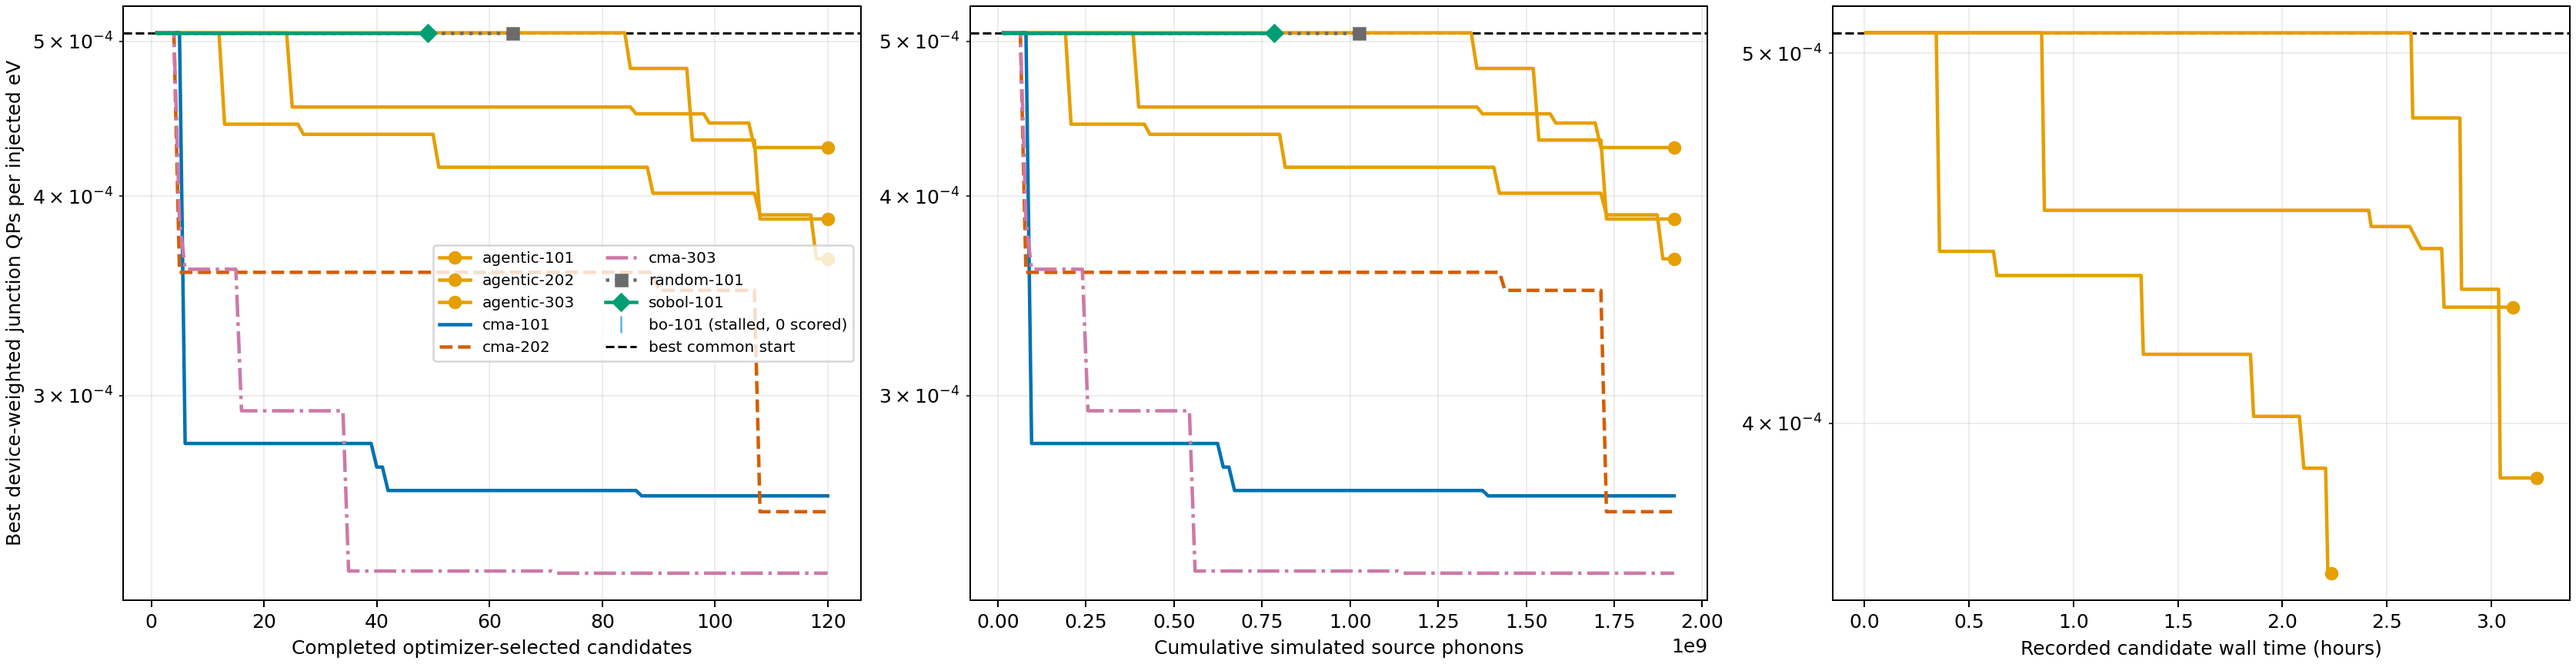
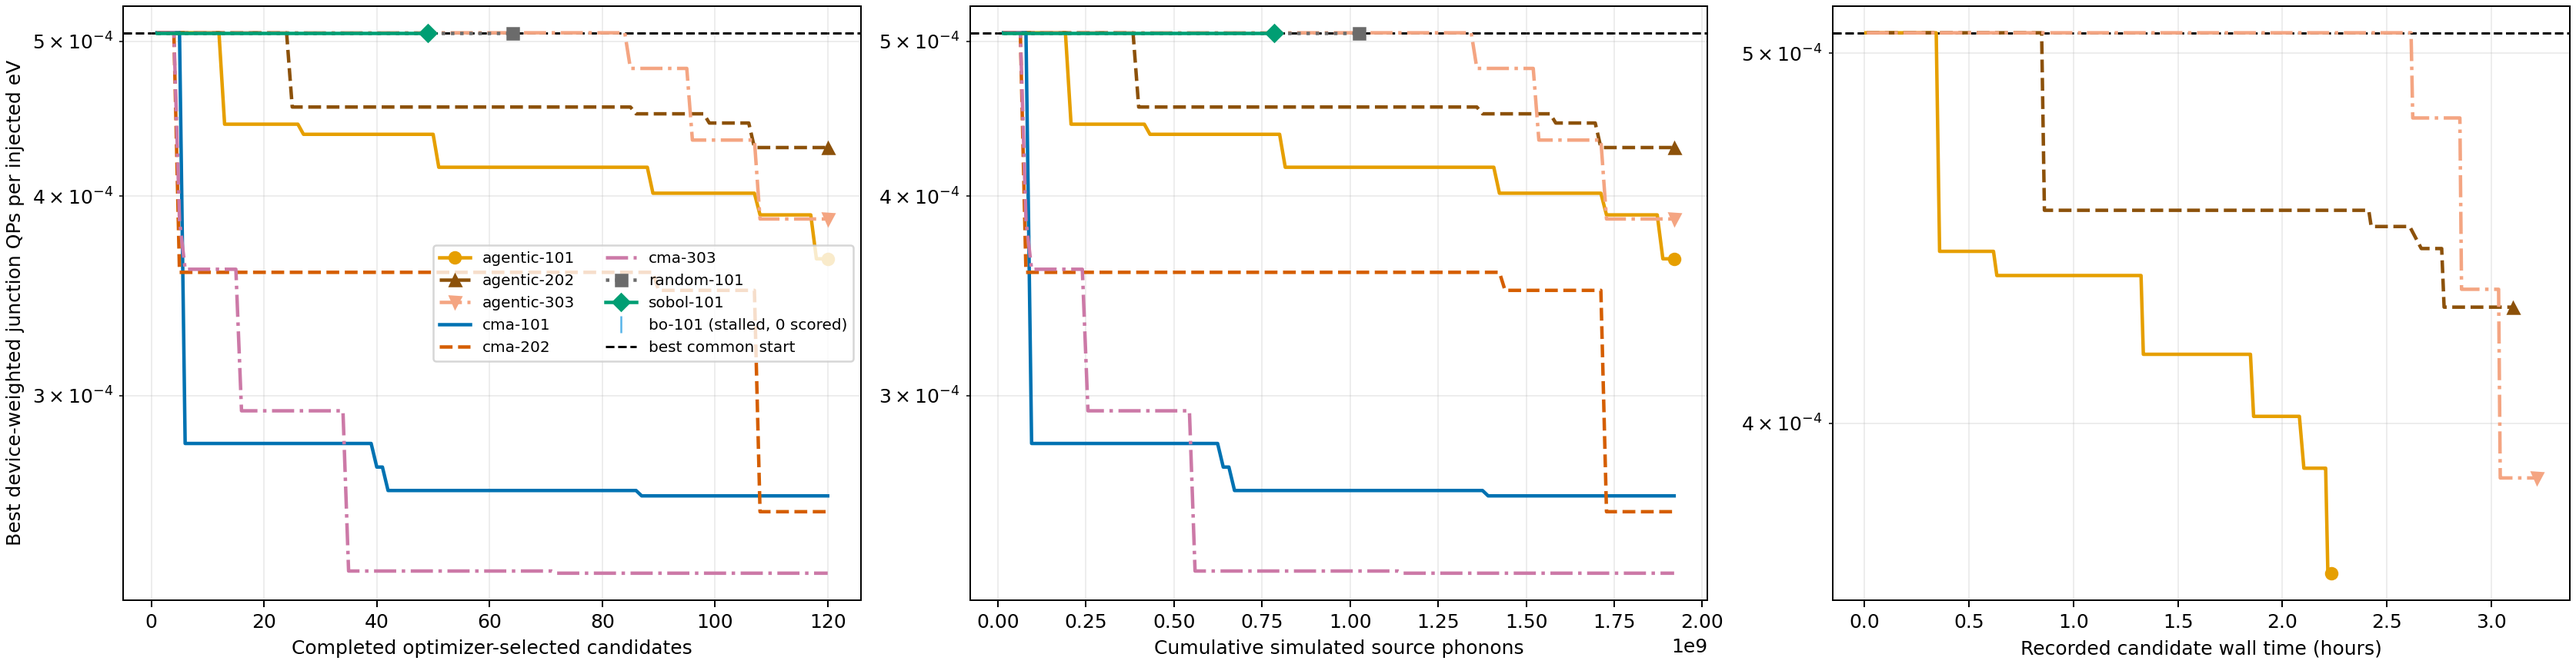
Finalize agentic benchmark results and figure

diff --git a/AGENTIC_MATERIAL_OPTIMIZATION_PLAN.md b/AGENTIC_MATERIAL_OPTIMIZATION_PLAN.md
@@ -3,11 +3,10 @@
 Status: implemented and covered by local replay tests on branch
 `Agentic_Material_optimization`, which began from
 `Material_optimization_v3_scan_parameters_revised` at commit `da7637f`. The exact
-production model passed the four-GPU preflight, and separately labelled one-point
-deployment and equal-policy pilots completed end to end. The equal-policy pilot
-validates execution, not optimizer effectiveness. The three 120-point comparison
-runs and full-spatial confirmation remain pending; no agentic improvement is
-resolved.
+production model passed the four-GPU preflight, and all three 120-point agentic
+runs completed end to end. Their median best screening value improves the common
+incumbent by 23.5%, but remains 52.5% higher than the CMA-ES median. The screening
+comparison is complete; no agentic superiority or new material optimum is claimed.
 
 ## Decision
 
@@ -204,13 +203,13 @@ therefore a retrospective workflow comparison, not a blinded contest of innate
 optimizer sample efficiency. Equal starting observations and source-phonon counts
 remain mandatory, and this information advantage must stay visible in reports.
 
-The agentic campaign will use the exact same `material-search.yaml`, 32 completed
+The agentic campaign used the exact same `material-search.yaml`, 32 completed
 common starting points, 120 adaptive evaluations per seed, source-phonon count per
 candidate, and seeds `101`, `202`, and `303` used for the retained CMA-ES runs.
 BO, CMA-ES, Sobol, random, and agentic inputs must share the same
 `experiment_spec_key` and `initial_points_key`.
 
-The report will show:
+The report shows:
 
 - best-so-far objective versus completed adaptive candidates;
 - best-so-far objective versus cumulative simulated source phonons;
@@ -220,7 +219,7 @@ The report will show:
 - wall time as an operational diagnostic, never as a substitute for equal
   simulated source-phonon count.
 
-The primary question is whether the three agentic seeds improve the distribution
+The primary question was whether the three agentic seeds improve the distribution
 of best confirmed objective values at equal simulation cost. A lower screening
 minimum alone is not enough. Leading candidates must be re-run with unused random
 seeds and the converged 2,361-site design before claiming an improvement. A
@@ -229,13 +228,13 @@ only when the predeclared paired agentic-versus-comparator difference interval
 excludes zero in the favorable direction. A future blinded methods benchmark
 would need a frozen common prior-information cutoff for every method.
 
-The equal-policy one-point pilot generated 12 valid candidates, selected one by
-GP expected improvement without fallback, and completed all 512 simulation tasks
-in 21.75 seconds. Its objective was `5.395803e-4 ± 8.31e-5`, 6.59% above the
-common-start best point estimate of `5.062199e-4 ± 8.74e-5`; the reported
-one-standard-error intervals overlap. This is no resolved improvement or
-regression, and one point cannot rank methods. An earlier one-point deployment
-run used a 3,600-second task timeout and is excluded from the equal-policy report.
+The production campaign completed 360 scored agentic points in 363 attempts,
+with no GP fallback. Seeds 101, 202, and 303 improved the common incumbent by
+27.8%, 15.3%, and 23.5%. CMA-ES improved it by 48.7%, 49.9%, and 54.1% at the
+same 120-point budget. The agentic method therefore improved over the prior in
+every seed but did not outperform CMA-ES. A 600-second task timeout censored
+three pathological attempts; older traditional records had no equivalent
+timeout, so wall-time and failure-rate comparisons are not equal-policy evidence.
 
 ## Implementation checks
 
@@ -245,6 +244,6 @@ run used a 3,600-second task timeout and is excluded from the equal-policy repor
    and complete audit traces.
 4. Complete: separately labelled deployment and equal-policy pilots ran before
    the three full seeds.
-5. Pending: run all three 120-point seeds, generate the equal-source-count
-   comparison, and confirm only genuinely competitive candidates with the full
-   spatial design.
+5. Complete: all three 120-point seeds and the equal-source-count comparison are
+   recorded. No agentic candidate beat the CMA-ES screening finalists, so no new
+   full-spatial confirmation was promoted.

diff --git a/material_scan/docs/results.md b/material_scan/docs/results.md
@@ -1,6 +1,6 @@
 # Experiments and current conclusions
 
-Last updated: 2026-09-21.
+Last updated: 2026-09-22.
 
 ## What has been completed
 
@@ -56,19 +56,16 @@ model cannot supply objective values or change the experiment.
 
 The parser, GP selection, saved source record, strict failure behavior, and
 network-free transcript replay pass mocked tests. The exact production model
-also passed its four-GPU, 65,536-token-context residency preflight. A separately
-labelled equal-policy pilot generated 12 valid candidates, selected one through
-GP expected improvement without fallback, and completed all 512 simulation
-tasks in 21.75 seconds. Its screening objective was
-`5.395803e-4 ± 8.31e-5`, 6.59% above the common-start best point estimate of
-`5.062199e-4 ± 8.74e-5`; it did not improve the incumbent, and the reported
-one-standard-error intervals overlap.
+passed its four-GPU, 65,536-token-context residency preflight. All three
+120-point searches then completed: seeds 101, 202, and 303 reached
+`3.654020e-4`, `4.290081e-4`, and `3.870108e-4`, improving the common incumbent
+by 27.8%, 15.3%, and 23.5%. No GP fallback was used. Three pathological
+simulation attempts were censored by the recorded 600-second per-task policy.
 
-This one-point pilot validates the execution path but cannot rank methods or
-establish a regression. An earlier pilot with a 3,600-second task timeout is
-deployment-only and excluded from the equal-policy report. The full three-seed,
-120-point-per-seed campaign and full-spatial confirmation remain pending, so no
-resolved agentic improvement is claimed. See the
+The agentic median best value was `3.870108e-4`, 52.5% higher than the CMA-ES
+median `2.537300e-4` at the same 120-point budget. Agentic search therefore
+improved the common incumbent in every seed but did not outperform CMA-ES. No
+agentic finalist was promoted to costly full-spatial confirmation. See the
 [current comparison](../experiments/agentic-comparison-status.md) and
 [preflight record](../experiments/agentic-preflight.json).
 
@@ -335,9 +332,9 @@ checksums identify them without rewriting their original field names.
    repeat-to-repeat variation for sparse low-hit candidates.
 9. The reported upper-tail quantity is diagnostic only until its site-level
    interval and an external engineering limit are available.
-10. The one-point equal-policy agentic pilot completed without fallback but did
-   not improve the common incumbent. It is deployment evidence only; no agentic
-   performance ranking is resolved.
+10. Three 120-point agentic runs improved the common incumbent by a median
+    23.5% without fallback, but their median best value remained 52.5% above
+    CMA-ES. The current comparison does not show agentic superiority.
 11. No fabrication optimum or logical-error reduction has been established.
 
 ## Recommended order of new work
